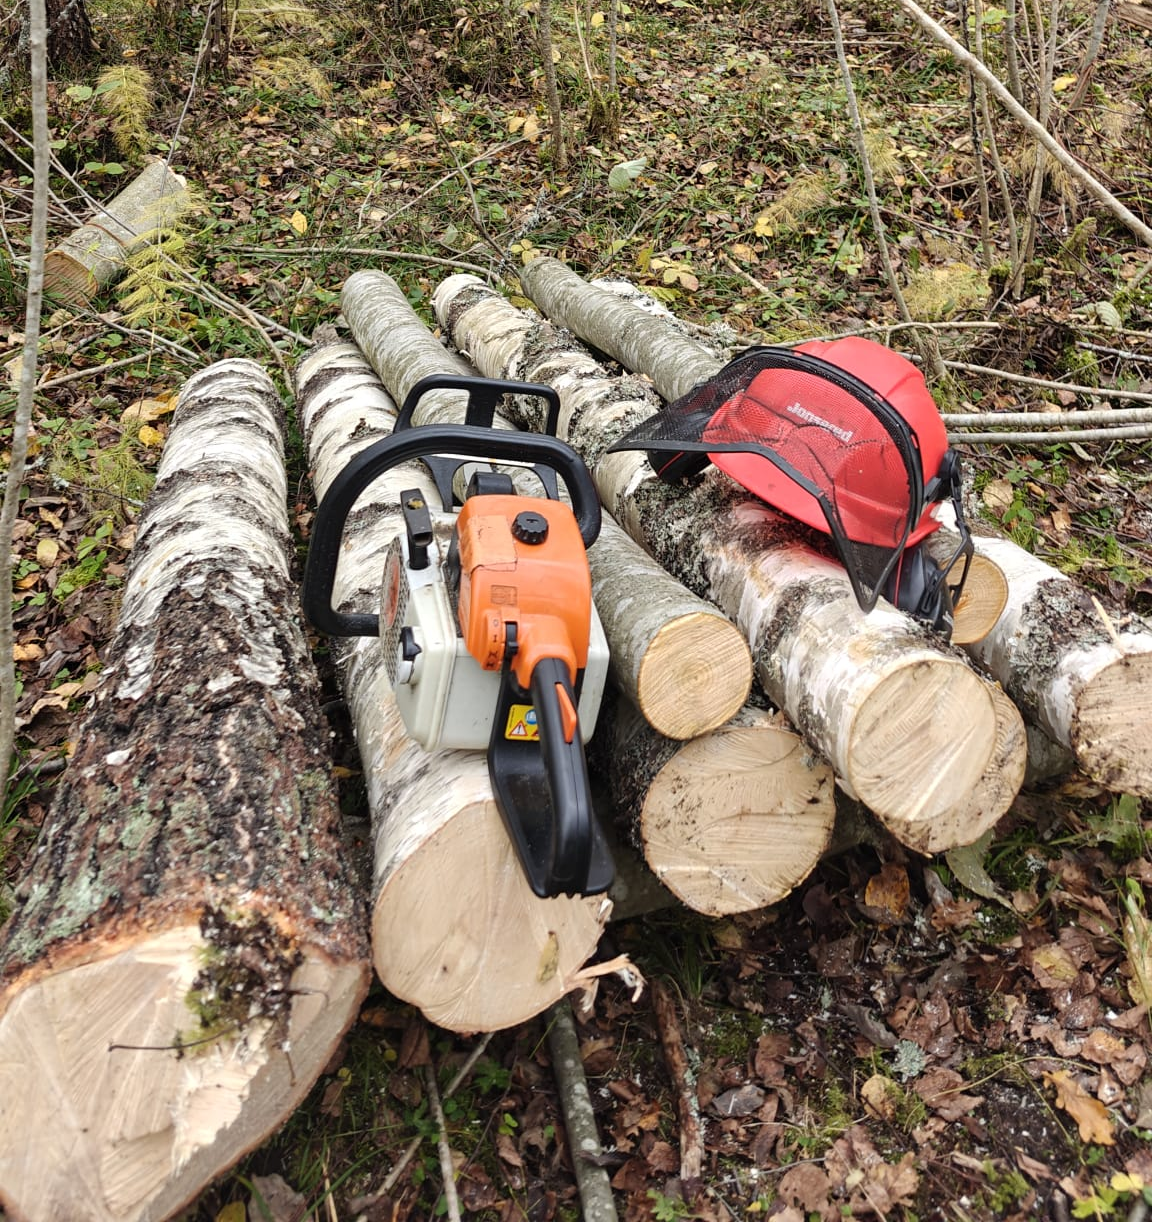
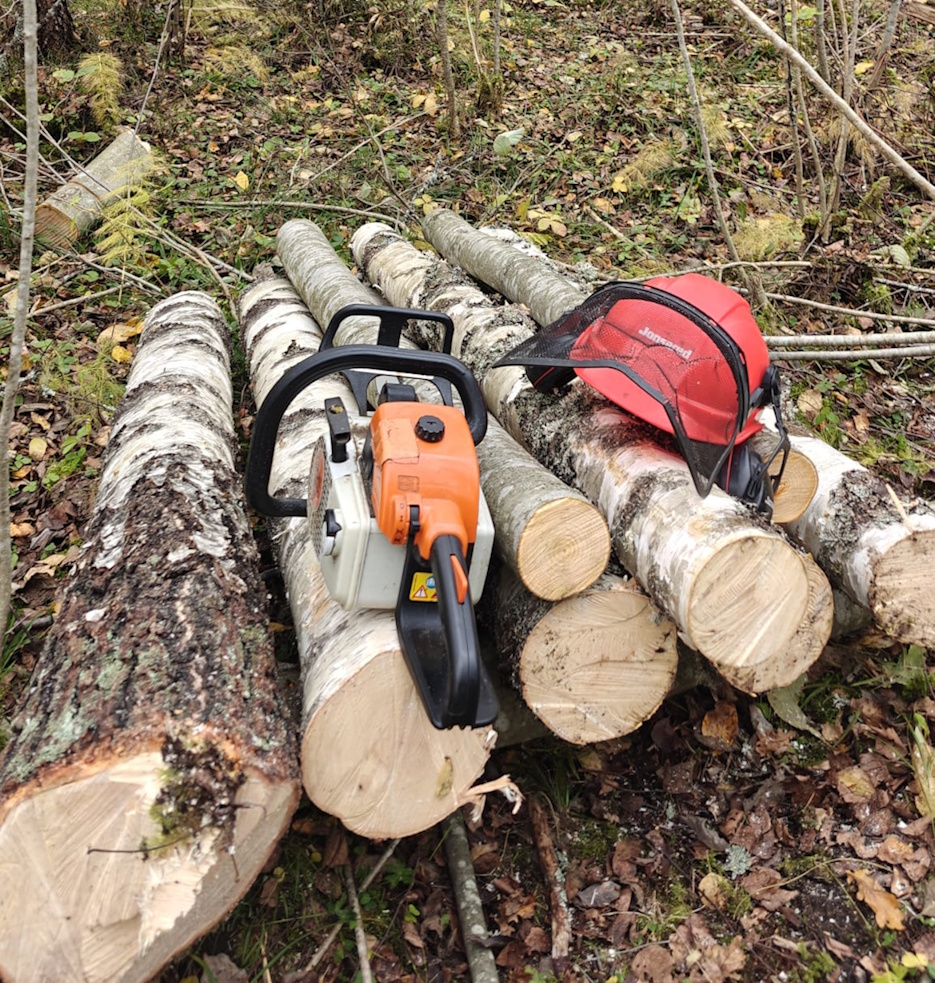
Update media carousel styles and images
Adjusted image sizing in MediaCarousel for improved display. Updated Fin.json to reference new images, replaced traktori.jpg with traktoriV2.jpg, added wtf.jpg, and updated Saha.jpg and traktori.jpg binaries.

diff --git a/components/MediaCarousel.js b/components/MediaCarousel.js
@@ -321,9 +321,9 @@ export default function MediaCarousel({ media = [] }) {
                     src={img.src}
                     alt={img.alt}
                     style={{
-                      width: "100%",
+                      width: "90%",
                       maxWidth: "700px",
-                      height: "auto",
+                      height: "400px",
                       objectFit: "cover",
                       borderRadius: "20%",
                       border: "3px solid #00ffdd",
